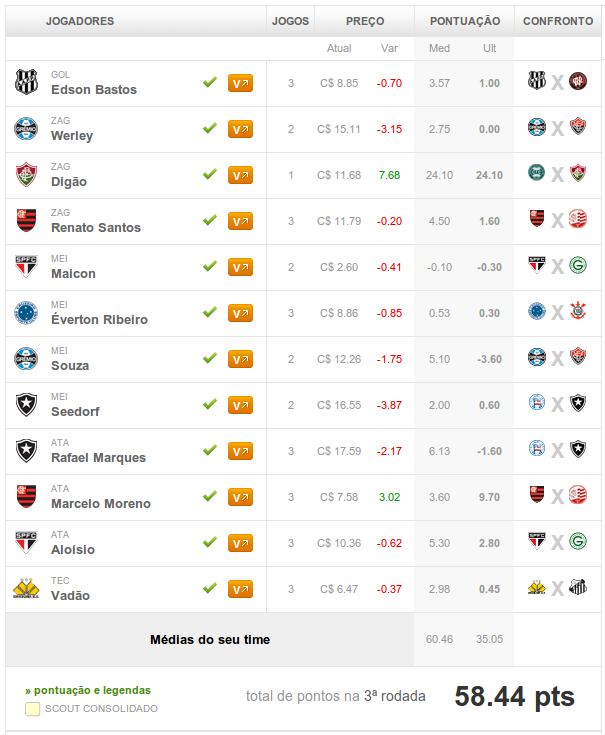
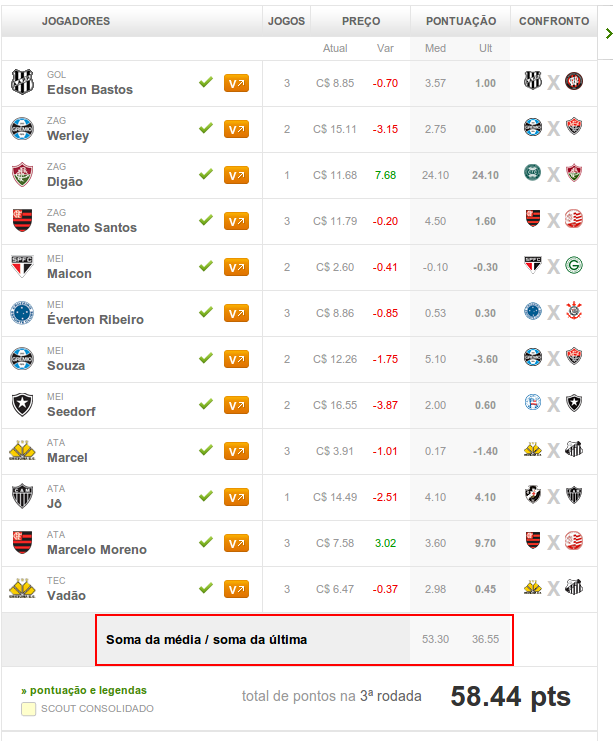
somas ao inves de médias

diff --git a/index.html b/index.html
@@ -44,7 +44,7 @@
 
             <h4>Como funciona?</h4>
             <p>
-               O app abaixo permite que você, cartoleiro, visualize a média da pontuação média e da última rodada da sua atual escalação para a próxima rodada.
+               O app abaixo permite que você, cartoleiro, visualize as somas da pontuação média e da última rodada da sua atual escalação para a próxima rodada.
                Com isso, dá pra ter uma idéia se seu time tá bem escalado ou não e se há discrepância muito grande entre as médias.
             </p>
 
@@ -57,8 +57,8 @@
                <li class="alert-danger">PS: Este app só funciona, por enquanto, no navegador Google Chrome.</li>
             </ol>
             <p class="well text-center">
-               <a class="btn btn-success btn-large" href="javascript:var cartolaBM=function(){if(typeof jQuery('#jogadores-lista table').get(0)=='undefined'){alert('Você precisa está na página de seu time para que o app funcione. A página é http://cartolafc.globo.com/#!/time');return}var e=jQuery('.ultima');var t=jQuery('.ultima').prev();var n=0;var r=0;for(var i=0;i<e.length;i++){n=n+parseFloat(e[i].innerHTML);r=r+parseFloat(t[i].innerHTML)}jQuery('#jogadores-lista table').append('<tr><td style=\'color:black; font-size:13px; background-color: #efefef\' colspan=\'7\'><strong>Médias do seu time</strong></td><td>'+r.toFixed(2)+'</td><td colspan\'2\'>'+n.toFixed(2)+'</td>')}()">
-                  CartolaFC App - Médias
+               <a class="btn btn-success btn-large" href="javascript:var cartolaBM=function(){if(typeof jQuery('#jogadores-lista table').get(0)=='undefined'){alert('Você precisa está na página de seu time para que o app funcione. A página é http://cartolafc.globo.com/#!/time');return}var e=jQuery('.ultima');var t=jQuery('.ultima').prev();var n=0;var r=0;for(var i=0;i<e.length;i++){n=n+parseFloat(e[i].innerHTML);r=r+parseFloat(t[i].innerHTML)}jQuery('#jogadores-lista table').append('<tr><td style=\'color:black; font-size:13px; background-color: #efefef\' colspan=\'7\'><strong>Soma da média / soma da última</strong></td><td>'+r.toFixed(2)+'</td><td colspan\'2\'>'+n.toFixed(2)+'</td>')}()">
+                  CartolaFC App - Somas
                </a>
             </p>
 

diff --git a/soma.js b/soma.js
@@ -11,5 +11,5 @@ var cartolaBM = function() {
       n = n + parseFloat(e[i].innerHTML);
       r = r + parseFloat(t[i].innerHTML)
    }
-   jQuery('#jogadores-lista table').append('<tr><td style=\'color:black; font-size:13px; background-color: #efefef\' colspan=\'7\'><strong>Médias do seu time</strong></td><td>' + r.toFixed(2) + '</td><td colspan\'2\'>' + n.toFixed(2) + '</td>')
+   jQuery('#jogadores-lista table').append('<tr><td style=\'color:black; font-size:13px; background-color: #efefef\' colspan=\'7\'><strong>Soma da média / soma da última</strong></td><td>' + r.toFixed(2) + '</td><td colspan\'2\'>' + n.toFixed(2) + '</td>')
 }();
